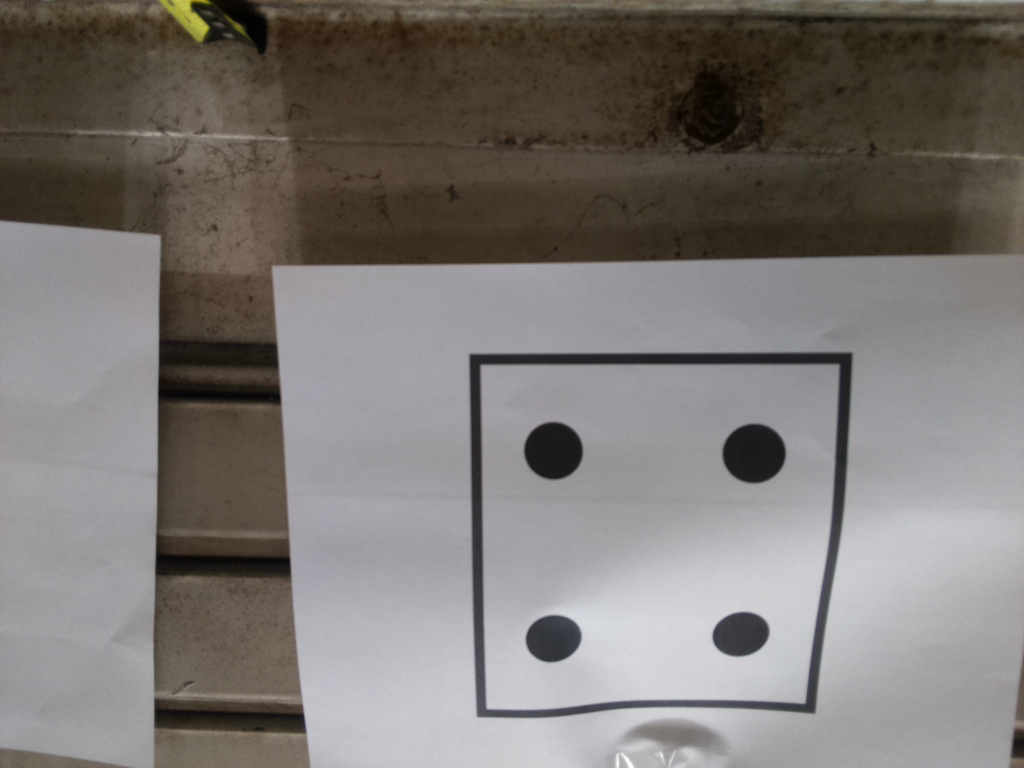
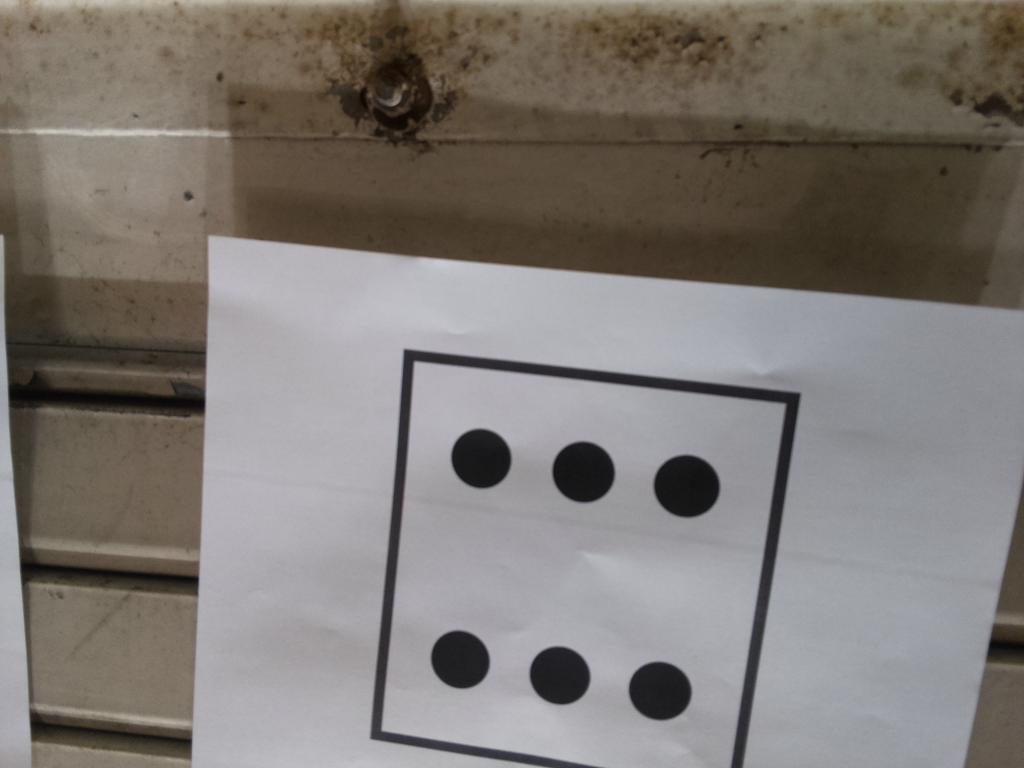
last testing

diff --git a/final_project/images.py b/final_project/images.py
@@ -9,19 +9,24 @@ bot = easy.EasyGoPiGo3()
 servo = bot.init_servo()
 camera = cam.PiCamera()
 
-index = 0;
-left = False
 
 def main():
-	take_image()
-	circles = find_circles()
-	left, index = next_move(circles, index)
-	move(left)
+    index = 0;
+    take_image()
+    circles = find_circles()
+    
+    if circles > 2:
+        for _ in range(index):
+        	l.blink(red)
+    else:
+        left, index = next_move(circles, index)
+        move(left)
+        main()
+    
 
 def take_image():
 	sleep(5)
 	camera.capture('image.png')
-	camera.close()
 
 	pass
 
@@ -29,12 +34,12 @@ def find_circles():
     img = cv2.imread('image.png',0)
     img = cv2.medianBlur(img,5)
 
-    circles = cv2.HoughCircles(img, cv2.cv.CV_HOUGH_GRADIENT, 1, 100, param1=50, param2=60, minRadius=0, maxRadius=0)
+    circles = cv2.HoughCircles(img, cv2.cv.CV_HOUGH_GRADIENT, 1, 100, param1=50, param2=50, minRadius=0, maxRadius=0)
 
     circles = np.uint16(np.around(circles))
-    print(circles)
 
-    return circles[0, -1]
+    print(len(circles[0, :, 1]))
+    return len(circles[0, :, 1])
 
 def next_move(circles, index):
 	if circles == 1:
@@ -47,22 +52,24 @@ def next_move(circles, index):
 	
 	else:
 		left = False
-		index * l.blink(red)
+                for _ in range(index):
+		    l.blink(red)
 
+        print(left)
 	return left, index
 
 def move(left):
-	l.wink(white, left)
+	l.wink('white', left)
 
 	if left:
-		bot.orbit(90)
+		bot.turn_degrees(90)
 		bot.drive_inches(14)
-		bot.orbit(-90)
+		bot.turn_degrees(-90)
 
 	else:
-		bot.orbit(-90)
+		bot.turn_degrees(-90)
 		bot.drive_inches(14)
-		bot.orbit(90)
+		bot.turn_degrees(90)
 
 	pass
 

diff --git a/final_project/camera.py b/final_project/camera.py
@@ -11,20 +11,20 @@ def check_cam():
 	camera.capture('image_1.png')
 	camera.close()
 
-img = cv2.imread('image_1.png',0)
+img = cv2.imread('image_4.png',0)
 img = cv2.medianBlur(img,5)
 
-circles = cv2.HoughCircles(img, cv2.cv.CV_HOUGH_GRADIENT, 1, 100, param1=50, param2=60, minRadius=0, maxRadius=0)
+circles = cv2.HoughCircles(img, cv2.cv.CV_HOUGH_GRADIENT, 1, 100, param1=50, param2=50, minRadius=0, maxRadius=0)
 
 circles = np.uint16(np.around(circles))
  
+print(len(circles[0, :, 1]))
 for i in circles[0,:]:
 	# draw the outer circle
 	cv2.circle(img,(i[0],i[1]),i[2],(0,255,0),2)
 	# draw the center of the circle
 	cv2.circle(img,(i[0],i[1]),2,(0,0,255),3)
 
-print(circles)
 cv2.imshow('detected circles', img)
 cv2.waitKey(0)
 cv2.destroyAllWindows()
